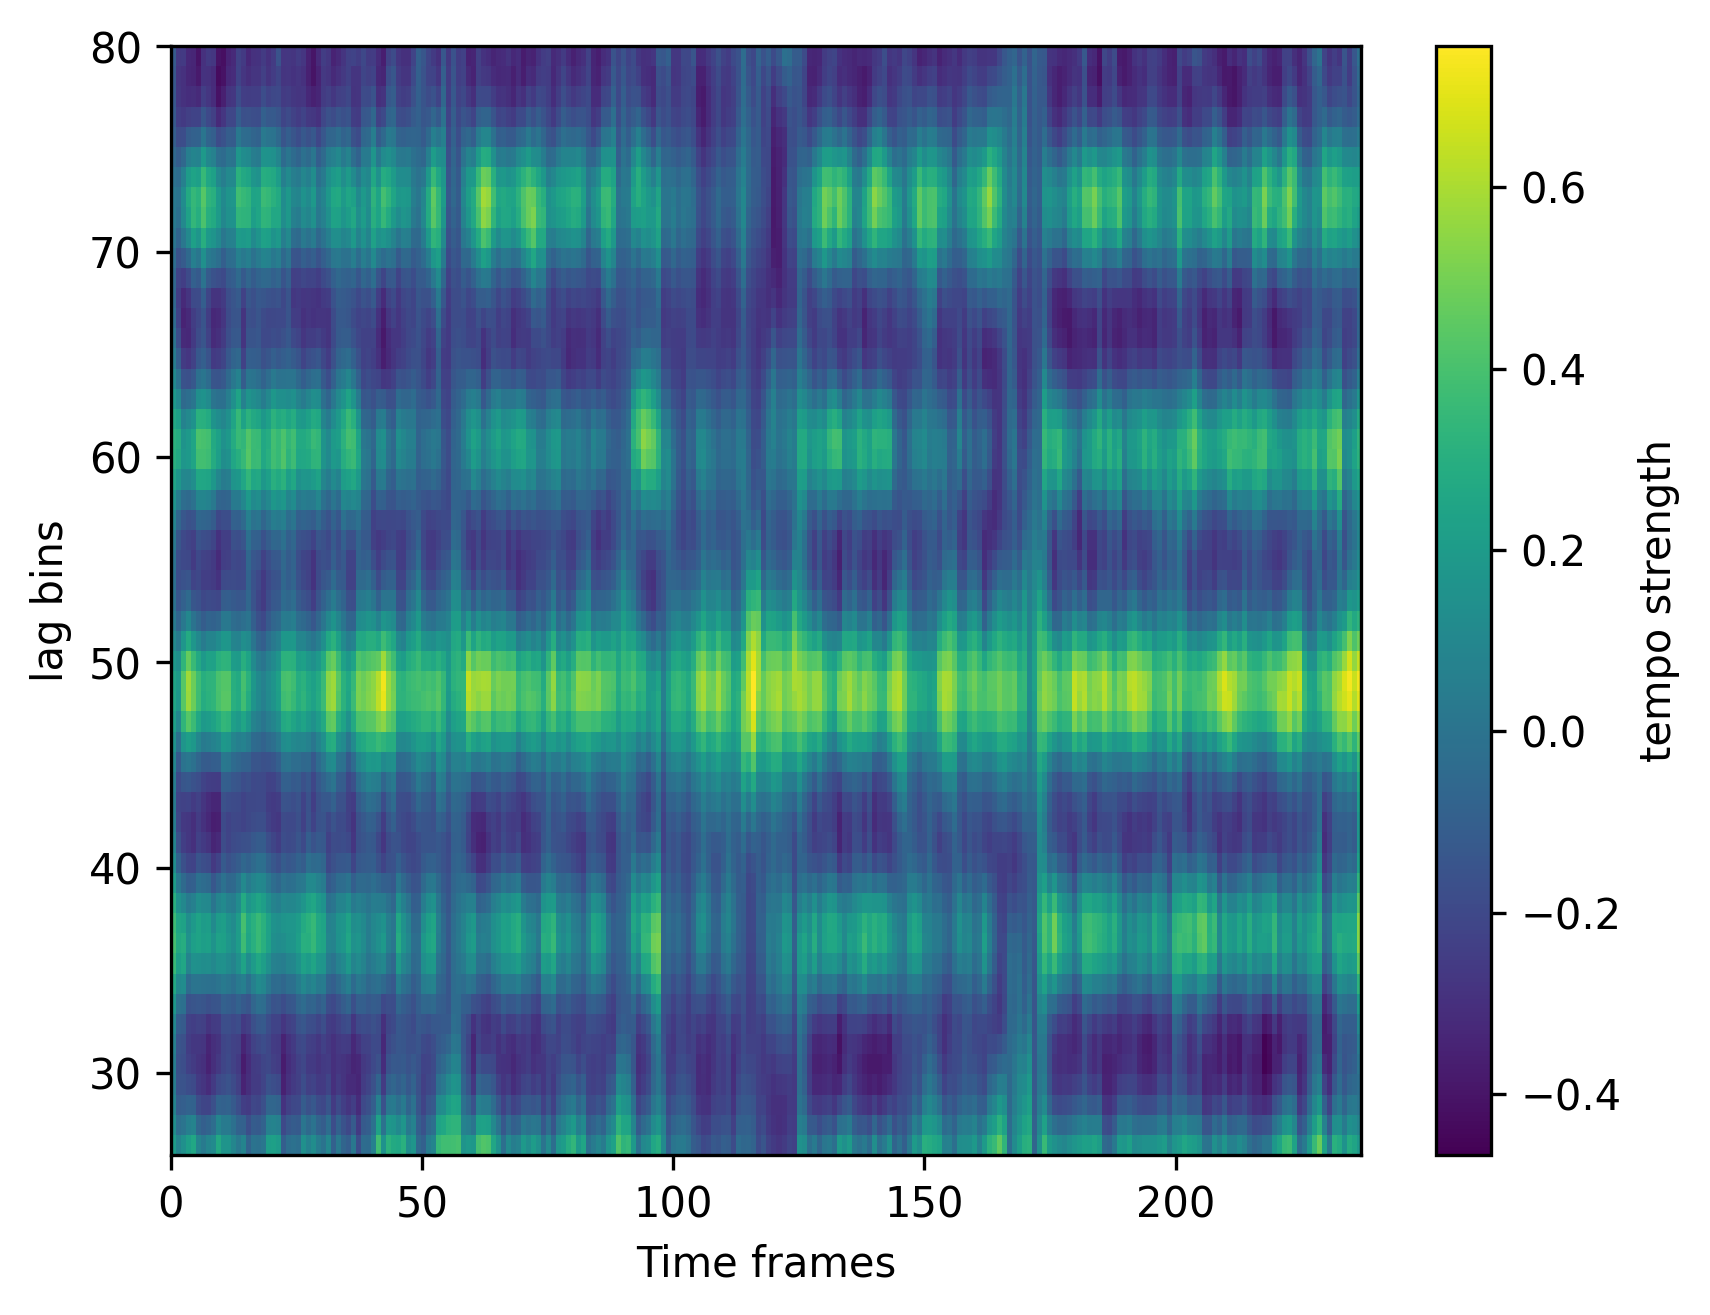
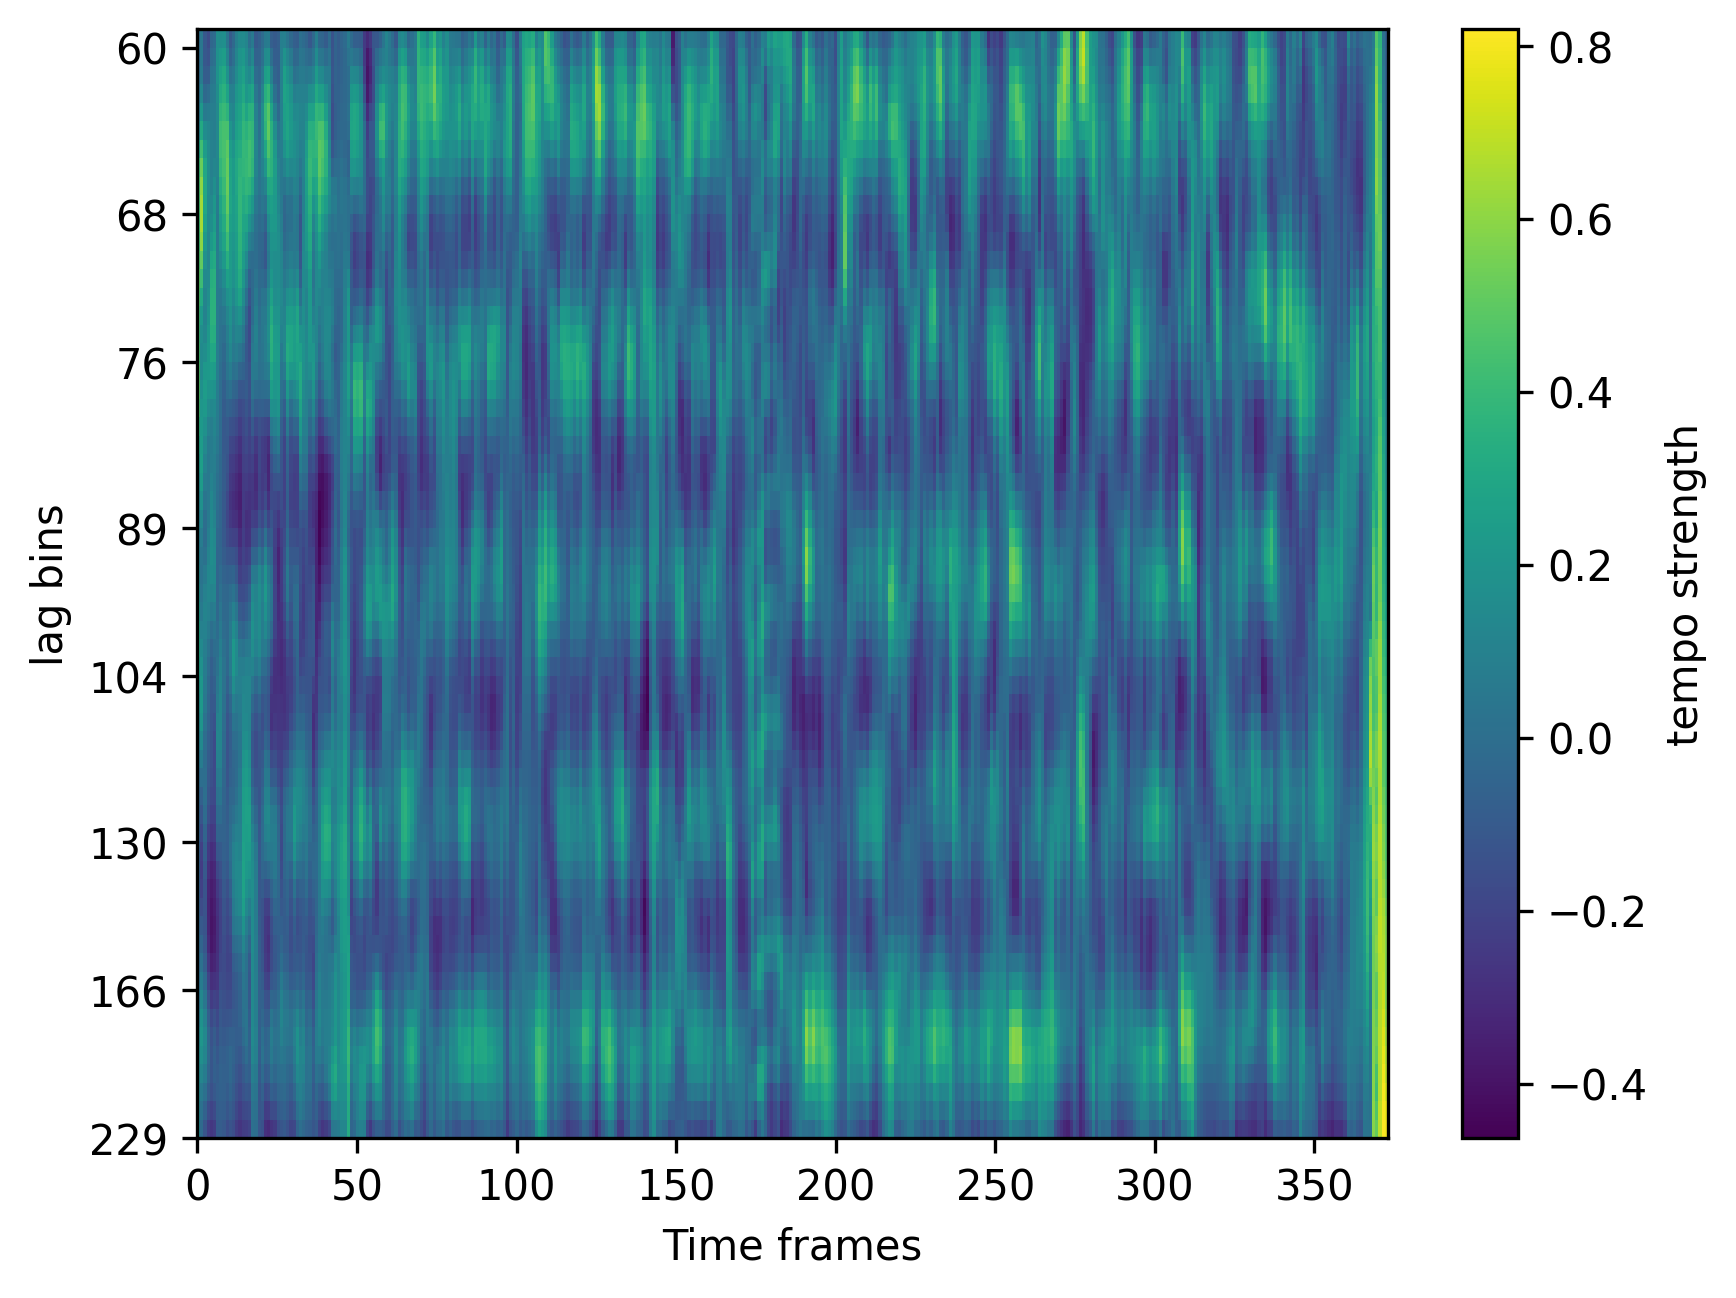
made changes suggested by ai. edited y labels to make the bpm scale properly. Added max function to smooth function call, changed onset curve to sum the spectrum frame values rather than mean

diff --git a/BPM_estimation_proj/visualization.py b/BPM_estimation_proj/visualization.py
@@ -20,14 +20,19 @@ def display_spectrogram(spectrum, hop_time):
     plt.clf()
 
 def display_tempogram(tempogram, bpm_scale):
-    bpm_scale = numpy.arange(bpm_scale.shape[0]) + 26
+    n_lags = tempogram.shape[0]
     time_scale = numpy.arange(tempogram.shape[1])
     plt.imshow(
         tempogram,
         origin = "lower",
         aspect = "auto",
-        extent = [time_scale[0], time_scale[-1], bpm_scale[0], bpm_scale[-1]]
+        extent = [time_scale[0], time_scale[-1], 0, n_lags]
         )
+    
+    tick_positions = numpy.linspace(0, n_lags - 1, 8).astype(int)
+    tick_labels = [f"{bpm_scale[i]:.0f}" for i in tick_positions]
+    plt.yticks(tick_positions, tick_labels)
+
     plt.colorbar(label='tempo strength')
     plt.xlabel("Time frames")
     plt.ylabel("lag bins")

diff --git a/BPM_estimation_proj/main.py b/BPM_estimation_proj/main.py
@@ -18,7 +18,7 @@ def main():
     #the hop length signifies the number of frames each frame length is pushed. For example [1,2,3,4,5,6,7,8] frame lenth 4 hop length 2 returns
     #[[1,2,3,4], [3,4,5,6], [5,6,7,8]]. librosa.util.frame returns this but instead transposed for convenience 
     
-    path = "./music/speed_demon.mp3"
+    path = "./music/effi.mp3"
     y, sample_rate = librosa.load(path, sr=None)
     print(sample_rate)
     frame_len =  int(sample_rate * .05)
@@ -43,7 +43,7 @@ def main():
 
     #Compute high and low lag based on expected bpm range calculated by dividing 60 by the hop time then the high and low bpm thresholds
     bpm_low = 60
-    bpm_high = 180
+    bpm_high = 220
 
     lag_low = int(60 / hop_time / bpm_high)
     lag_high = int(60 / hop_time / bpm_low)

diff --git a/BPM_estimation_proj/novelty_curve.py b/BPM_estimation_proj/novelty_curve.py
@@ -1,7 +1,7 @@
 import numpy
 
 def onset_curve(spectrum, hop_time):
-    spectrum =  numpy.mean(spectrum, axis=0)
+    spectrum =  numpy.sum(spectrum, axis=0)
     return numpy.maximum(numpy.diff(spectrum)/hop_time, 0)
 
 def smooth_curve(onset, framel):
@@ -18,4 +18,4 @@ def smooth_curve(onset, framel):
     #return smooth
 
 def process_band(spec, hop):
-    return smooth_curve(onset= onset_curve(spectrum=spec, hop_time=hop), framel=int(.1/hop))
+    return smooth_curve(onset= onset_curve(spectrum=spec, hop_time=hop), framel=max(1,int(.1/hop)))